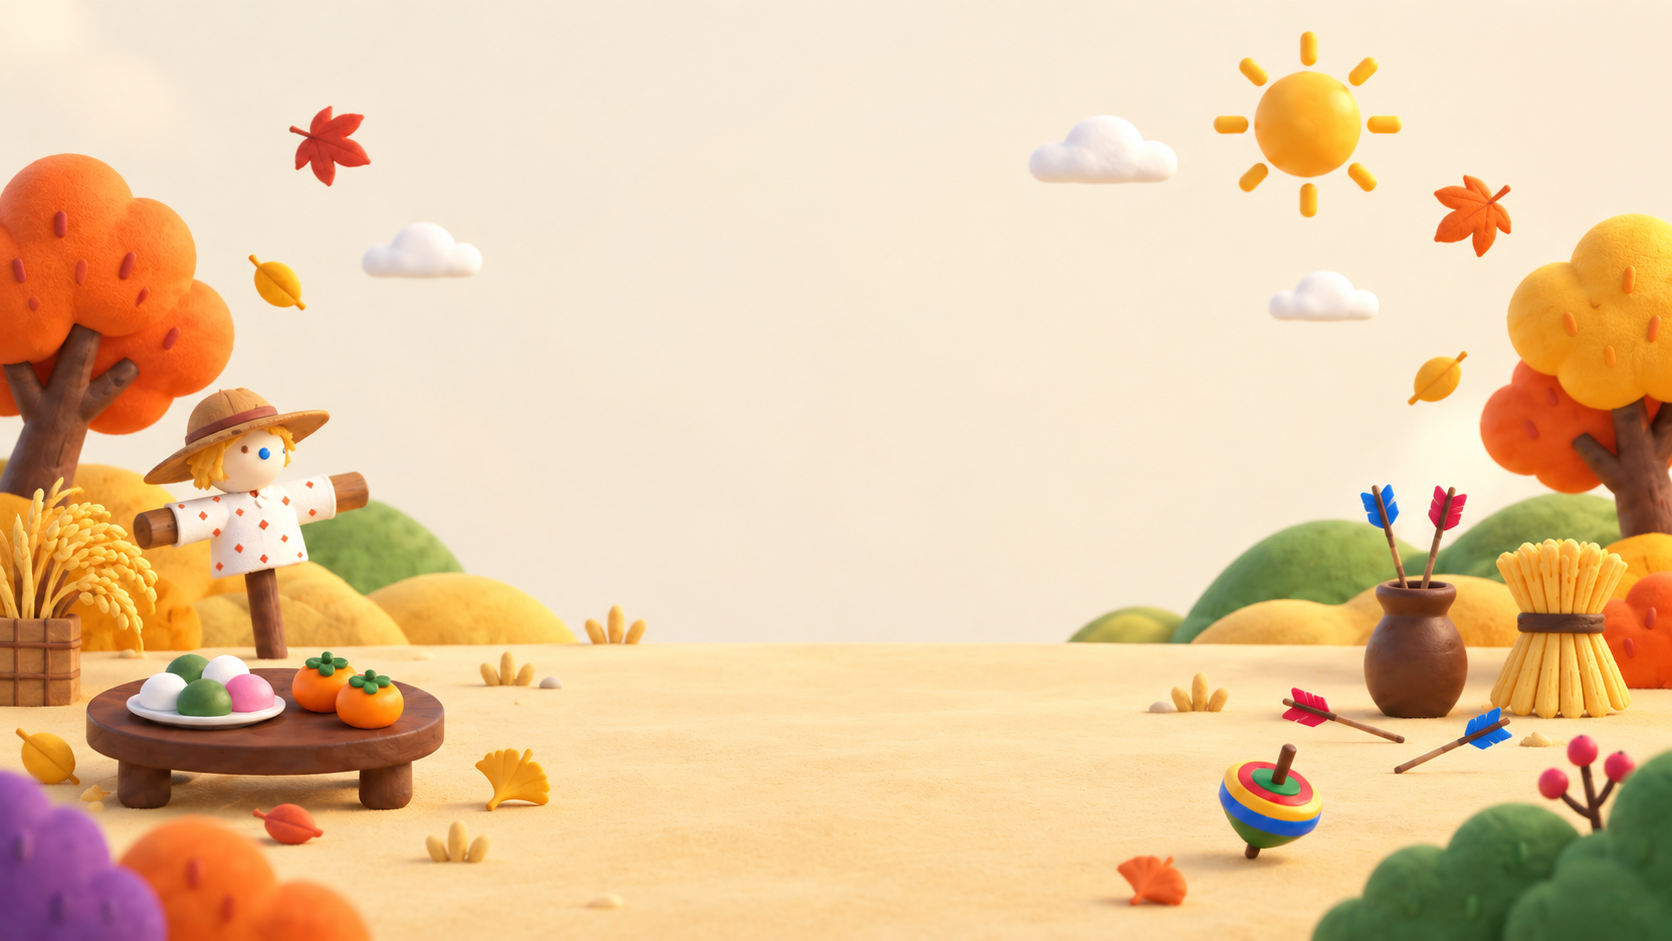
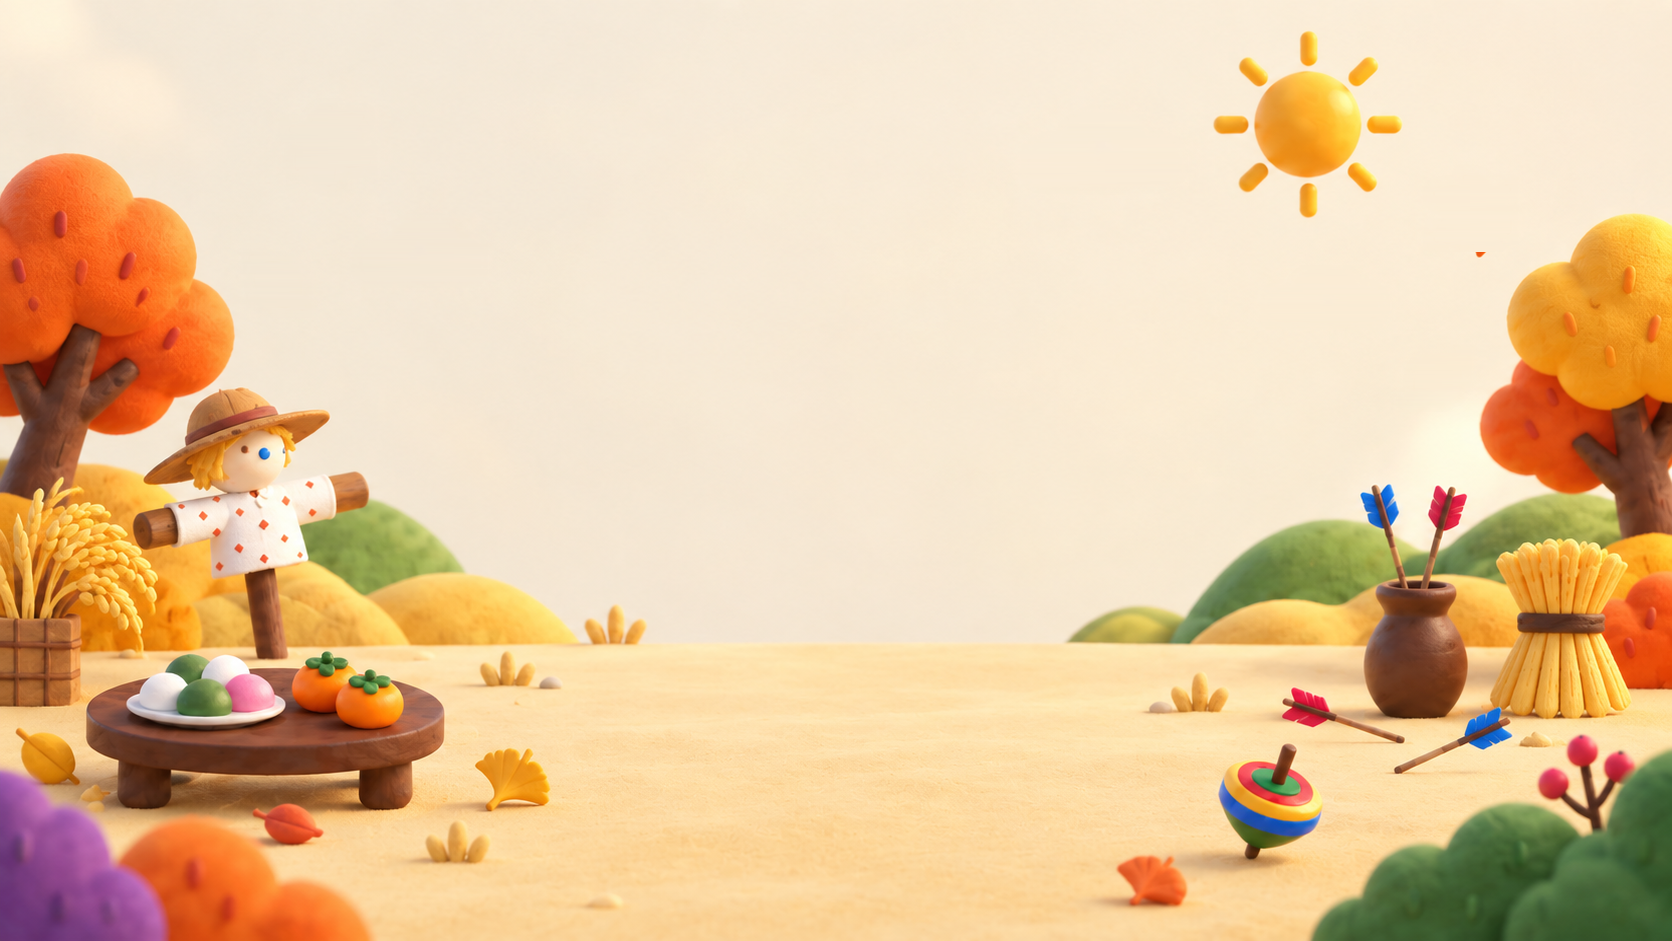
WORLD: every scene breathes — each painting's own clouds, leaves, stars and lanterns move
가을 들판: its three clouds drift, its four loose leaves fall from the two
trees. 달빛 마을: the night cloud drifts (soft-edged at the image cut), the
17 painted stars twinkle — each lifted out individually, sky filled behind.
보름달 마당: the five sky lanterns rise from their painted spots, fade near
the top and float up again from behind the ridge; the wall and porch
lanterns flicker with a soft additive glow; the lake reflection shimmers
(masked wind band); maple leaves fall from the maple and persimmon trees.

Engine: floaters go up or down (with painted start positions for the first
pass), stars pulse in scale/opacity, glows flicker; all belong to a scene
and fade with the crossfade. Sprites are cut from the paintings with
colour-aware masks; sky behind lifted objects is filled by interpolation
or normalised convolution.

diff --git a/public/world.html b/public/world.html
@@ -87,11 +87,28 @@ const SCENES = {
         { tex: "/fx/harvest_cloud2.png", x: 1210, y: 217, speed: 4.2 },
         { tex: "/fx/harvest_cloud3.png", x: 1587, y: 230, speed: 6.5 },
       ],
-      leaves: { sprites: ["/fx/leaf1.png", "/fx/leaf2.png", "/fx/leaf3.png"], spawn: [[30, 40, 330, 190, 7], [1500, 300, 1660, 400, 2]], fadeY: [540, 610] },
+      floaters: [{ sprites: ["/fx/leaf1.png", "/fx/leaf2.png", "/fx/leaf3.png"], spawn: [[30, 40, 330, 190, 7], [1500, 300, 1660, 400, 2]], vy: [13, 22], fade: [540, 610], sway: 16, spin: 0.55, size: [0.8, 1.15] }],
     } },
-  field: { label: "가을 들판", src: "/world3d-field.png",  aspect: 1672 / 941, ground: { x: [-4.8, 4.5], xNear: [-2.2, 2.0], z: [-6, 4.5] }, lift: 0, cam: { pos: [0, 2.2, 12], look: [0, 2.5, -1.5] }, hemi: [0xfff4d6, 0x9a6a3a, 1.0], sun: [0xfff2cc, 1.6], rim: [0xffd08a, 0.7] },
-  night: { label: "달빛 마을", src: "/world3d-night.png",  aspect: 1672 / 941, ground: { x: [-3, 7], z: [-5, 3.5] }, lift: 0.02, hemi: [0xdfe6ff, 0x5a4a30, 0.85], sun: [0xfff0c8, 1.1],  rim: [0x9fb4ff, 0.8] },
-  moon:  { label: "보름달 마당", src: "/world3d-moon.png",  aspect: 1672 / 941, ground: { x: [-4.8, 6.5], xNear: [-1.2, 3.0], z: [-6, 4.5] }, lift: 0, cam: { pos: [0, 2.2, 12], look: [0, 2.5, -1.5] }, hemi: [0xffd9a8, 0x5a3a20, 0.9], sun: [0xffc890, 1.25], rim: [0x9fb4ff, 0.9] },
+  field: { label: "가을 들판", src: "/world3d-field.png",  aspect: 1672 / 941, px: [1672, 941], ground: { x: [-4.8, 4.5], xNear: [-2.2, 2.0], z: [-6, 4.5] }, lift: 0, cam: { pos: [0, 2.2, 12], look: [0, 2.5, -1.5] }, hemi: [0xfff4d6, 0x9a6a3a, 1.0], sun: [0xfff2cc, 1.6], rim: [0xffd08a, 0.7],
+    fx: { // its three clouds drift; its four loose leaves fall from the two trees
+      clouds: [{ tex: "/fx/field_cloud1.png", x: 422, y: 251, speed: 4.5 }, { tex: "/fx/field_cloud2.png", x: 1104, y: 150, speed: 3.6 }, { tex: "/fx/field_cloud3.png", x: 1324, y: 296, speed: 5.2 }],
+      floaters: [{ sprites: ["/fx/field_leaf1.png", "/fx/field_leaf2.png", "/fx/field_leaf3.png", "/fx/field_leaf4.png"], spawn: [[10, 170, 230, 400, 5], [1500, 220, 1672, 470, 3]], vy: [12, 20], fade: [480, 560], sway: 16, spin: 0.55, size: [0.8, 1.15] }],
+    } },
+  night: { label: "달빛 마을", src: "/world3d-night.png",  aspect: 1672 / 941, px: [1672, 941], ground: { x: [-3, 7], z: [-5, 3.5] }, lift: 0.02, hemi: [0xdfe6ff, 0x5a4a30, 0.85], sun: [0xfff0c8, 1.1],  rim: [0x9fb4ff, 0.8],
+    fx: { // the night cloud drifts; the painted stars twinkle
+      clouds: [{ tex: "/fx/night_cloud1.png", x: 108, y: 169, speed: 2.8 }],
+      stars: "/fx/night_stars.json",
+    } },
+  moon:  { label: "보름달 마당", src: "/world3d-moon.png",  aspect: 1672 / 941, px: [1672, 941], ground: { x: [-4.8, 6.5], xNear: [-1.2, 3.0], z: [-6, 4.5] }, lift: 0, cam: { pos: [0, 2.2, 12], look: [0, 2.5, -1.5] }, hemi: [0xffd9a8, 0x5a3a20, 0.9], sun: [0xffc890, 1.25], rim: [0x9fb4ff, 0.9],
+    fx: { // sky lanterns rise from behind the ridge, the lake shimmers, wall lanterns flicker, maple leaves fall
+      wind: { rect: [0.52, 0.462, 0.87, 0.50], amp: 0.0012 },
+      floaters: [
+        { sprites: ["/fx/moon_lantern1.png", "/fx/moon_lantern2.png", "/fx/moon_lantern3.png", "/fx/moon_lantern4.png", "/fx/moon_lantern5.png"], spawn: [[560, 430, 1500, 470, 5]], start: [[682, 144], [790, 90], [870, 206], [964, 298], [1456, 260]], vy: [-8, -4.5], fade: [140, 40], sway: 5, spin: 0, size: [1, 1], wait: [4, 16] },
+        { sprites: ["/fx/field_leaf1.png", "/fx/leaf3.png", "/fx/leaf1.png"], spawn: [[220, 200, 500, 400, 4], [1260, 40, 1640, 180, 2]], vy: [10, 18], fade: [560, 620], sway: 14, spin: 0.55, size: [0.45, 0.65] },
+      ],
+      stars: "/fx/moon_stars.json",
+      glows: [{ x: 455, y: 598, r: 34 }, { x: 665, y: 597, r: 34 }, { x: 1005, y: 603, r: 34 }, { x: 1400, y: 607, r: 34 }, { x: 118, y: 142, r: 40 }, { x: 206, y: 208, r: 36 }],
+    } },
 };
 const SCENE_ORDER = ["harvest", "field", "night", "moon"];
 const _q = new URLSearchParams(location.search);
@@ -190,37 +207,68 @@ const groundX = (z) => { // painted floors narrow toward the viewer: x range at 
 const ambientGroup = new THREE.Group();
 ambientGroup.position.z = -BACKDROP_D + 0.15;
 camera.add(ambientGroup);
-const ambient = { scene: null, next: null, opacity: 1, clouds: [], leaves: [], time: 0 };
+const ambient = { scene: null, next: null, opacity: 1, build: 0, clouds: [], floaters: [], stars: [], glows: [], time: 0 };
 const spriteMat = (tex) => new THREE.MeshBasicMaterial({ map: getTex(tex), transparent: true, depthWrite: false, toneMapped: false, opacity: 1 });
+// a soft round glow (for lantern flicker), drawn once
+const glowTex = (() => {
+  const c = document.createElement("canvas"); c.width = c.height = 128;
+  const g = c.getContext("2d"), grd = g.createRadialGradient(64, 64, 0, 64, 64, 64);
+  grd.addColorStop(0, "rgba(255,255,255,1)"); grd.addColorStop(0.35, "rgba(255,255,255,0.45)"); grd.addColorStop(1, "rgba(255,255,255,0)");
+  g.fillStyle = grd; g.fillRect(0, 0, 128, 128);
+  const t = new THREE.CanvasTexture(c); t.colorSpace = THREE.SRGBColorSpace; return t;
+})();
 function buildAmbient(name) {
-  for (const o of [...ambient.clouds, ...ambient.leaves]) ambientGroup.remove(o.mesh);
-  ambient.clouds = []; ambient.leaves = []; ambient.scene = name; ambient.opacity = 0;
+  for (const o of [...ambient.clouds, ...ambient.floaters, ...ambient.stars, ...ambient.glows]) ambientGroup.remove(o.mesh);
+  ambient.clouds = []; ambient.floaters = []; ambient.stars = []; ambient.glows = []; ambient.scene = name; ambient.opacity = 0;
+  const build = ++ambient.build;
   const fx = SCENES[name]?.fx;
   if (!fx) return;
+  let zi = 0;
   for (const c of fx.clouds || []) {
     const mesh = new THREE.Mesh(new THREE.PlaneGeometry(1, 1), spriteMat(c.tex));
+    mesh.position.z = 0.01 + zi++ * 0.001;
     ambientGroup.add(mesh);
-    ambient.clouds.push({ mesh, x: c.x, y: c.y, speed: c.speed, tex: c.tex });
+    ambient.clouds.push({ mesh, x: c.x, y: c.y, speed: c.speed });
   }
-  const lv = fx.leaves;
-  if (lv) {
+  for (const set of fx.floaters || []) {
     let i = 0;
-    for (const [x0, y0, x1, y1, n] of lv.spawn) for (let k = 0; k < n; k++, i++) {
-      const tex = lv.sprites[i % lv.sprites.length];
-      const mesh = new THREE.Mesh(new THREE.PlaneGeometry(1, 1), spriteMat(tex));
-      mesh.position.z = 0.02 + i * 0.001;
+    for (const [x0, y0, x1, y1, n] of set.spawn) for (let k = 0; k < n; k++, i++) {
+      const mesh = new THREE.Mesh(new THREE.PlaneGeometry(1, 1), spriteMat(set.sprites[i % set.sprites.length]));
+      mesh.position.z = 0.05 + zi++ * 0.001;
       ambientGroup.add(mesh);
-      const leaf = { mesh, tex, box: [x0, y0, x1, y1], phase: rnd(0, 6.28), x: 0, y: 0, vy: 0, wait: 0, spin: rnd(0.6, 1.1), size: 1 };
-      ambient.leaves.push(leaf);
-      resetLeaf(leaf, lv, true);
+      const f = { mesh, set, box: [x0, y0, x1, y1], phase: rnd(0, 6.28), x: 0, y: 0, vy: 0, wait: 0, spin: rnd(0.6, 1.1), size: 1 };
+      ambient.floaters.push(f);
+      resetFloater(f, set.start?.[i] ?? null);
     }
   }
+  for (const g of fx.glows || []) {
+    const mesh = new THREE.Mesh(new THREE.PlaneGeometry(1, 1), new THREE.MeshBasicMaterial({ map: glowTex, color: 0xffb060, transparent: true, depthWrite: false, toneMapped: false, blending: THREE.AdditiveBlending, opacity: 0 }));
+    mesh.position.z = 0.03 + zi++ * 0.001;
+    ambientGroup.add(mesh);
+    ambient.glows.push({ mesh, x: g.x, y: g.y, r: g.r, phase: rnd(0, 6.28) });
+  }
+  if (fx.stars) fetch(fx.stars).then((r) => r.json()).then((list) => {
+    if (build !== ambient.build) return; // the scene moved on meanwhile
+    for (const st of list) {
+      const mesh = new THREE.Mesh(new THREE.PlaneGeometry(1, 1), spriteMat(st.tex));
+      mesh.position.z = 0.02 + zi++ * 0.001;
+      ambientGroup.add(mesh);
+      ambient.stars.push({ mesh, x: st.x, y: st.y, phase: rnd(0, 6.28), w: rnd(1.2, 3.0) });
+    }
+  }).catch(() => {});
 }
-function resetLeaf(l, lv, initial) {
-  const [x0, y0, x1, y1] = l.box;
-  l.x = rnd(x0, x1); l.y = rnd(y0, y1); l.vy = rnd(13, 22); l.size = rnd(0.8, 1.15);
-  l.wait = initial ? 0 : rnd(0.5, 6);
-  if (initial) l.y = rnd(y0, lv.fadeY[1]); // a first frame already mid-fall, not a burst
+// a floater goes down (leaves) or up (sky lanterns); `start` = its painted
+// position for the very first pass, so the scene opens exactly as painted
+function resetFloater(f, start) {
+  const set = f.set, [x0, y0, x1, y1] = f.box, up = set.vy[0] < 0;
+  f.x = rnd(x0, x1); f.y = rnd(y0, y1); f.vy = rnd(set.vy[0], set.vy[1]); f.size = rnd(set.size[0], set.size[1]);
+  f.wait = rnd(set.wait?.[0] ?? 0.5, set.wait?.[1] ?? 6);
+  f.born = f.y;
+  if (start) { f.x = start[0]; f.y = start[1]; f.wait = 0; f.born = up ? f.y + 60 : f.y - 60; }
+  else if (f.fresh === undefined) { // first frame: already mid-way, not a burst
+    f.wait = 0; f.y = rnd(Math.min(y0, set.fade[1]), Math.max(y0, set.fade[1])); f.born = up ? f.y + 60 : f.y - 60;
+  }
+  f.fresh = false;
 }
 function ambientTick(dt) {
   ambient.time += dt;
@@ -232,7 +280,7 @@ function ambientTick(dt) {
   const sc = SCENES[ambient.scene]; const fx = sc?.fx;
   if (!fx) return;
   const f = fitFor(ambient.scene), [PW, PH] = sc.px;
-  const place = (mesh, x, y, tex, alpha) => {
+  const place = (mesh, x, y, _tex, alpha) => {
     const img = mesh.material.map.image;
     if (!img?.width) { mesh.visible = false; return; }
     mesh.visible = true;
@@ -245,22 +293,36 @@ function ambientTick(dt) {
     c.x += c.speed * dt;
     const img = c.mesh.material.map.image, half = (img?.width || 200) / 2;
     if (c.x > PW + half + 40) c.x = -half - 40; // wraps off-screen (the painting covers the screen)
-    place(c.mesh, c.x, c.y, c.tex, 1);
+    place(c.mesh, c.x, c.y, null, 1);
   }
-  const lv = fx.leaves;
-  for (const l of ambient.leaves) {
-    if (l.wait > 0) { l.wait -= dt; l.mesh.visible = false; continue; }
-    const t = ambient.time + l.phase;
-    l.y += l.vy * dt;
-    l.x += Math.sin(t * 1.3) * 16 * dt + 4 * dt; // sway, drifting with the wind
-    const [fy0, fy1] = lv.fadeY;
-    const fadeIn = Math.min(1, (l.y - l.box[1]) / 40 + 0.15);
-    const alpha = Math.min(fadeIn, 1 - THREE.MathUtils.clamp((l.y - fy0) / (fy1 - fy0), 0, 1));
-    place(l.mesh, l.x, l.y, l.tex, alpha);
-    l.mesh.rotation.z = Math.sin(t * l.spin) * 0.55;
-    l.mesh.scale.multiplyScalar(l.size);
-    l.mesh.scale.x *= 0.72 + 0.28 * Math.cos(t * 1.7); // a tumble, seen edge-on now and then
-    if (l.y >= fy1) resetLeaf(l, lv, false);
+  for (const f of ambient.floaters) {
+    const set = f.set, up = set.vy[0] < 0;
+    if (f.wait > 0) { f.wait -= dt; f.mesh.visible = false; continue; }
+    const t = ambient.time + f.phase;
+    f.y += f.vy * dt;
+    f.x += Math.sin(t * 1.3) * set.sway * dt + (up ? 1.5 : 4) * dt; // sway, drifting with the wind
+    const [fy0, fy1] = set.fade;
+    const fadeIn = Math.min(1, Math.abs(f.y - f.born) / 40 + 0.15);
+    const alpha = Math.min(fadeIn, 1 - THREE.MathUtils.clamp((f.y - fy0) / (fy1 - fy0), 0, 1));
+    place(f.mesh, f.x, f.y, null, alpha);
+    f.mesh.rotation.z = set.spin ? Math.sin(t * f.spin) * set.spin : Math.sin(t * 0.7) * 0.04;
+    f.mesh.scale.multiplyScalar(f.size);
+    if (set.spin) f.mesh.scale.x *= 0.72 + 0.28 * Math.cos(t * 1.7); // a tumble, seen edge-on now and then
+    if (up ? f.y <= fy1 : f.y >= fy1) resetFloater(f, null);
+  }
+  for (const st of ambient.stars) {
+    const t = ambient.time * st.w + st.phase;
+    place(st.mesh, st.x, st.y, null, 0.72 + 0.28 * (0.5 + 0.5 * Math.sin(t)));
+    st.mesh.scale.multiplyScalar(1 + 0.12 * Math.sin(t * 0.7 + 1.3));
+  }
+  for (const g of ambient.glows) {
+    const t = ambient.time;
+    const flicker = 0.5 + 0.25 * Math.sin(t * 7.3 + g.phase) + 0.25 * Math.sin(t * 3.1 + g.phase * 2.0);
+    g.mesh.visible = true;
+    g.mesh.scale.set(g.r * 2 / PW * f.w, g.r * 2 / PH * f.h, 1);
+    g.mesh.position.x = (g.x / PW - 0.5) * f.w;
+    g.mesh.position.y = (0.5 - g.y / PH) * f.h + f.lift;
+    g.mesh.material.opacity = (0.16 + 0.14 * flicker) * ambient.opacity;
   }
 }
 
